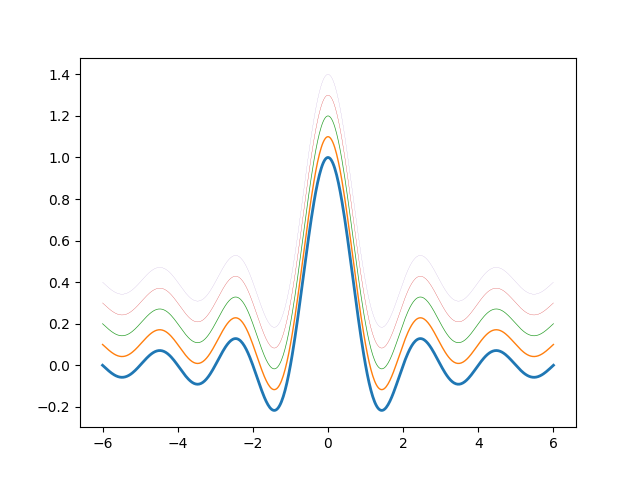
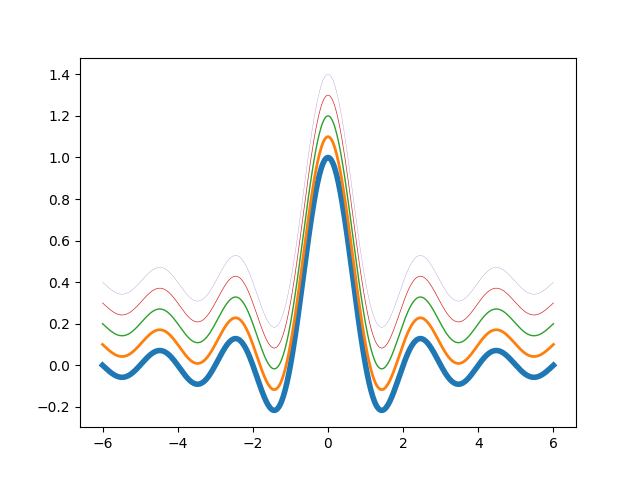
plots updated

Changed region(s): [[0.1562, 0.1875, 0.875, 0.875]]

diff --git a/lines_examples.py b/lines_examples.py
@@ -12,7 +12,7 @@ y = np.sinc(x)
 # Vary the line width.
 fig = plt.figure()
 ax = fig.gca()
-ax.plot(x, y, linewidth=5)
+ax.plot(x, y, linewidth=15)
 fig.savefig("images/wide_line.png")
 
 # Vary the line color.
@@ -30,9 +30,9 @@ fig.savefig("images/dashed_line.png")
 # Make multiple lines.
 fig = plt.figure()
 ax = fig.gca()
-ax.plot(x, y, linewidth=2)
-ax.plot(x, y + .1, linewidth=1)
-ax.plot(x, y + .2, linewidth=.5)
-ax.plot(x, y + .3, linewidth=.2)
-ax.plot(x, y + .4, linewidth=.1)
+ax.plot(x, y, linewidth=4)
+ax.plot(x, y + .1, linewidth=2)
+ax.plot(x, y + .2, linewidth=1)
+ax.plot(x, y + .3, linewidth=.5)
+ax.plot(x, y + .4, linewidth=.2)
 fig.savefig("images/multiple_lines.png")
